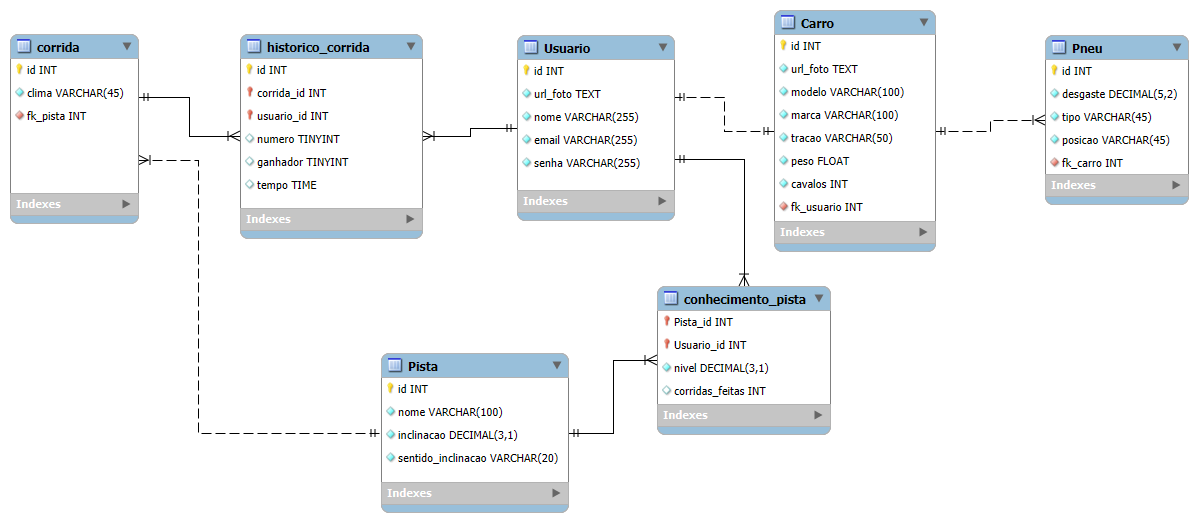
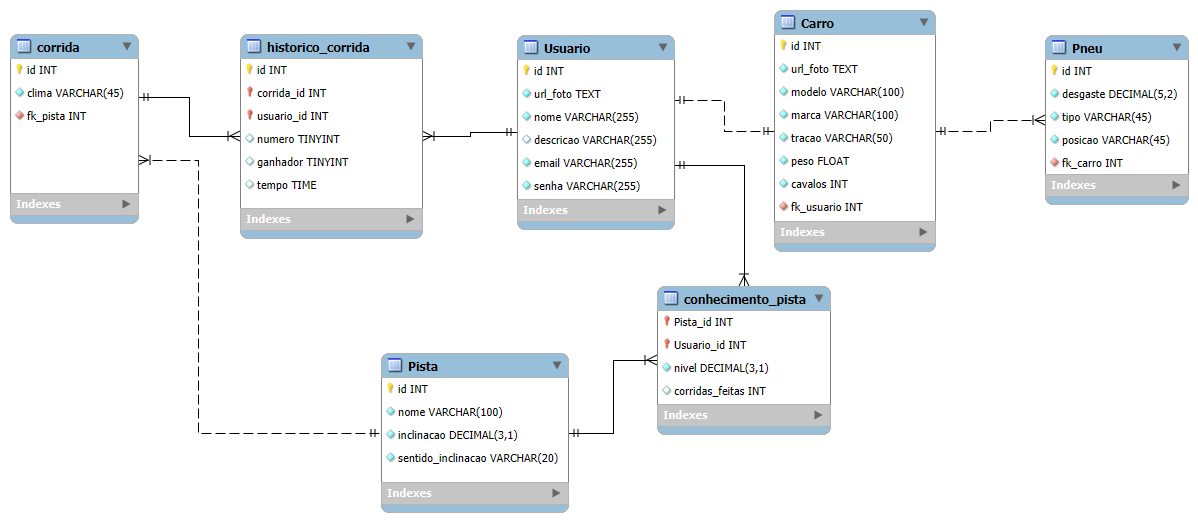
feat: adiciona campo descricao na modelagem

Changed region(s): [[0.4324, 0.3065, 0.5868, 0.4598], [0.4015, 0.2452, 0.5559, 0.2759]]

diff --git a/public/dashboard/perfil.html b/public/dashboard/perfil.html
@@ -31,6 +31,7 @@
 
             <div class="container-nome">
                 <h1 id="nome_usuario"></h1>
+                <h3 id="descricao_usuario"></h3>
             </div>
         </div>
         <div class="container_grafico_perfil">

diff --git a/public/js/atualizar.js b/public/js/atualizar.js
@@ -1,0 +1,3 @@
+function atualizarDescricao(){
+    
+}
